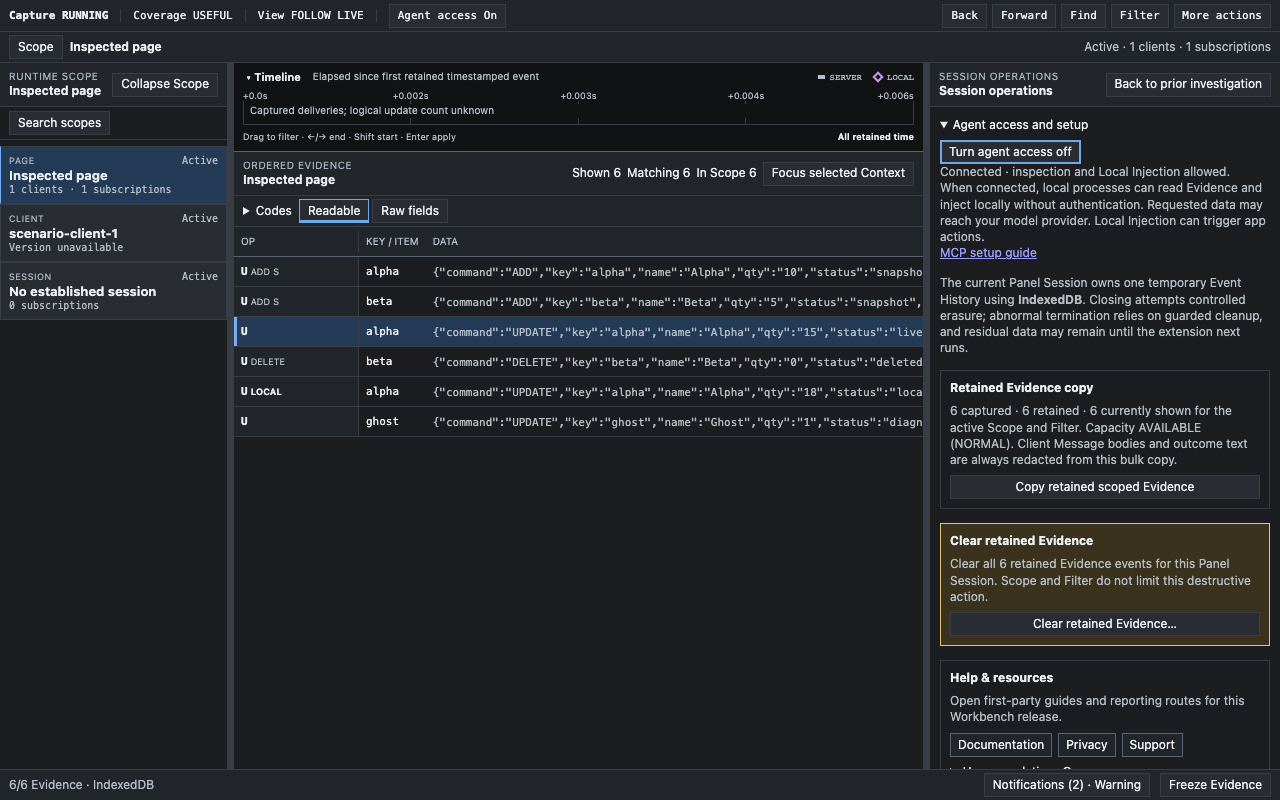
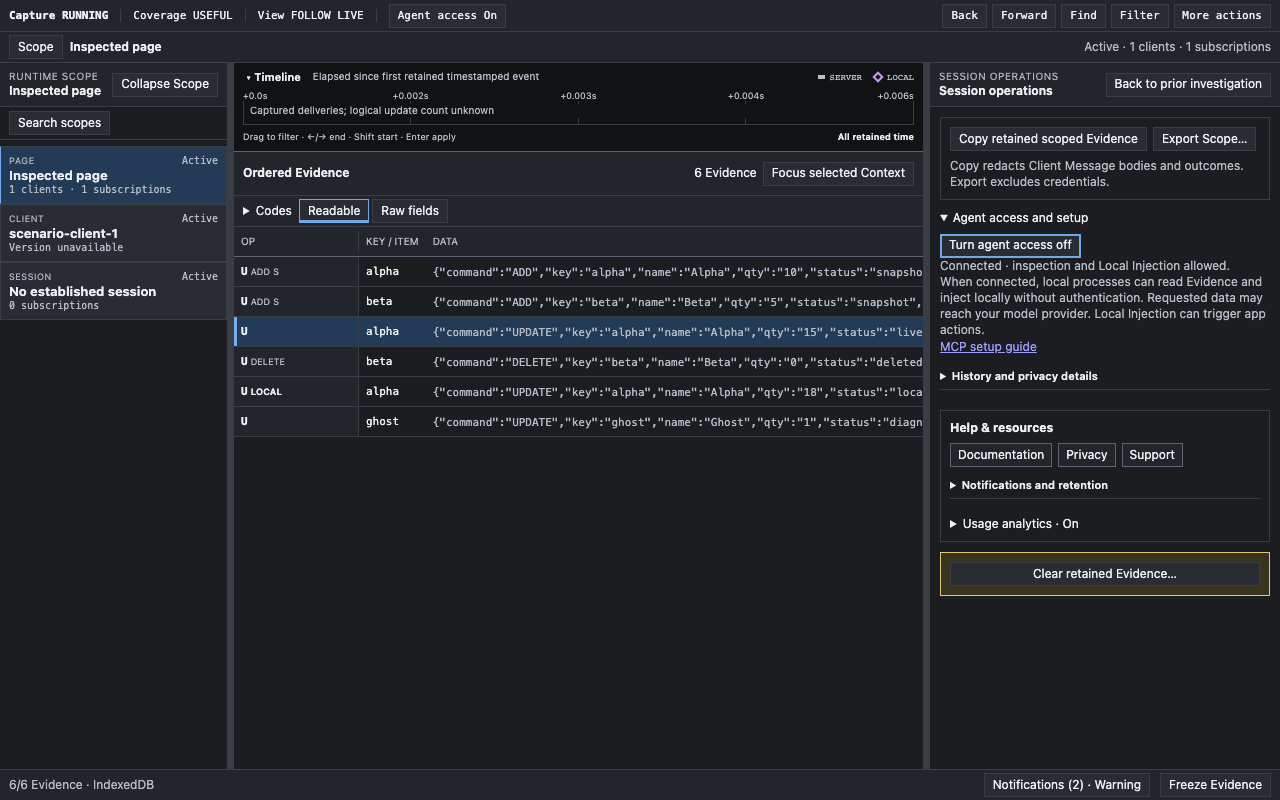
Prepare Chrome 2.0.8 and npm companion 0.1.7 release

diff --git a/store-listing/LISTING.md b/store-listing/LISTING.md
@@ -46,10 +46,10 @@ https://imom39a.github.io/lightstreamer-workbench-extension/privacy/
 
 ## Detailed Description
 
-The description below is saved for extension 2.0.7 with matching companion 0.1.5. The npm package and matching public extension download were verified on September 30, 2026. Version 2.0.7 was submitted for review that day with automatic publication after approval at 100% distribution. The API and refreshed dashboard confirm pending review; 2.0.6 remains published. The versioned release records later in this file describe their original packages.
+The description below is prepared for extension 2.0.8 with matching companion 0.1.7. On October 2, 2026, the publisher API and public listing confirm that extension 2.0.7 is published at 100% distribution. The versioned release records later in this file describe their original packages.
 
 ```text
-New in 2.0.7: COMMAND Clear and exact key handling are more reliable, and long sessions release discarded runtime objects and bound historical bookkeeping. With companion 0.1.5, agents can read one exact COMMAND key with certainty and provenance, wait for an existing operation without repeating it, and recover from incompatible companion versions. MCP reads preserve JSON values, support cancellation, and keep replies within explicit budgets.
+New in 2.0.8: the workspace presents less repeated copy and preserves editor focus. Build Local Injection Scenarios from searchable captured updates with explicit batch adds, an ordered queue, and one focused editor. Switching members and Undo preserve each editor's reading position. Long sessions bound deleted COMMAND-key history. Companion 0.1.7 provides the matching MCP tools and setup.
 
 Lightstreamer Workbench adds a Chrome DevTools panel for applications that use the official Lightstreamer Web Client.
 
@@ -68,7 +68,7 @@ Key features:
 - Trace COMMAND `ADD`, `UPDATE`, and `DELETE` operations. Use Fields, diagnostics, and Checkpoints for more detail.
 - Create one protected Local Injection Draft from captured Evidence or from a live COMMAND Scope.
 - Edit raw JSON and validate the Draft. Captured Drafts compare Source and Draft by default, then inject directly from that preview.
-- Use a Local Injection Scenario for ordered Steps, immutable reviewed Runs, serial controls, Checkpoints, and results for each Step.
+- Search captured updates for the exact Scenario target, select a batch, and add it explicitly. Review ordered Steps and Checkpoints in a queue with one focused editor. Scenarios retain immutable reviewed Runs, serial controls, and results for each Step.
 - Connect a local MCP companion to inspect a Panel Session's Scope, Evidence, diagnostics, and Local Injection Scenario results. Agents can profile and query streams, validate candidates, prepare Scenarios, and inspect Scenario traces. They cannot perform Server Injection, clear Event History, or evaluate arbitrary page code.
 - When a panel opens, Agent access is on by default with inspection and Local Injection available together. There is no read-only mode. The header shows On, Waiting, or Off and opens the access control under More actions → Agent access and setup. Authentication is off; any local process that can reach the companion can use the connected panel's grant. Run Chrome and the Node.js 22.12+ companion on the same computer.
 - Deliver an Item Update to the exact live Subscription in the inspected page. Workbench reports delivered, failed, partial, unknown, and stale-target results.
@@ -126,23 +126,22 @@ store-listing/promo/marquee-promo-tile.png
 Version:
 
 ```text
-2.0.7
+2.0.8
 ```
 
 What's new:
 
 ```text
-COMMAND and agent reliability release, paired with companion 0.1.5.
+Workspace and Scenario workflow improvements, paired with companion 0.1.7.
 
-- Fix COMMAND Clear/replay and exact whitespace-key handling.
-- Release discarded runtime objects and bound historical bookkeeping in long sessions.
-- Preserve encoded JSON values while redacting recognized credentials in MCP reads.
-- Propagate read cancellation and keep responses within explicit budgets.
-- Read one exact COMMAND key with certainty and provenance through query_command_state.
-- Wait for an existing operation receipt through wait_for_operation without repeating it.
-- Validate companion identity and report incompatible Chrome/MCP pairs.
-- Preserve Server Injection correlation receipts and refuse new sends when their capacity is reached.
-- Keep the existing Capture, Injection, permission, and analytics boundaries.
+- Reduce repeated workspace copy and preserve editor focus.
+- Search bounded pages of captured updates independently of the investigation.
+- Add selected batches explicitly and atomically within Scenario capacity limits.
+- Compose an ordered queue with one focused Source/Draft editor.
+- Preserve member reading positions through switching, Park/Resume, and Undo.
+- Label MERGE and DISTINCT Steps as Item update.
+- Bound deleted COMMAND-key history in long sessions.
+- Preserve MCP authorization, the human workspace, and existing data boundaries.
 ```
 
 ## Privacy Practices Draft
@@ -184,18 +183,33 @@ Page access is required to run packaged instrumentation at document_start before
 ## Reviewer Test Instructions
 
 ```text
-No account required. On a page using the official Lightstreamer Web Client, open DevTools > Lightstreamer Workbench. Ordered Evidence captures updates; select one for Local Injection. Server Injection reviews one Client Message before send. Agent access starts on. To test MCP, use companion 0.1.5 from https://www.npmjs.com/package/lightstreamer-workbench-agent/v/0.1.5 and the setup guide at https://imom39a.github.io/lightstreamer-workbench-extension/docs/agent-access/.
+No account required. On a page using the official Lightstreamer Web Client, open DevTools > Lightstreamer Workbench. Select captured Evidence for Local Injection, or explicitly add updates to a Scenario queue. Server Injection reviews one Client Message before send. Agent access starts on. Test MCP with companion 0.1.7: https://www.npmjs.com/package/lightstreamer-workbench-agent/v/0.1.7. Setup: https://imom39a.github.io/lightstreamer-workbench-extension/docs/agent-access/.
 ```
 
-For Store MCP review, extract the configured candidate `release/lightstreamer-workbench-v2.0.7.zip` and load it unpacked; record its assigned extension ID. Generate setup from npm:
+For Store MCP review, extract the configured candidate `release/lightstreamer-workbench-v2.0.8.zip` and load it unpacked; record its assigned extension ID. Generate setup from npm:
 
 ```sh
-npx --yes lightstreamer-workbench-agent@0.1.5 setup --extension-id YOUR_UNPACKED_EXTENSION_ID
+npx --yes lightstreamer-workbench-agent@0.1.7 setup --extension-id YOUR_UNPACKED_EXTENSION_ID
 ```
 
-Copy the printed MCP configuration into the test agent app and start its stdio server. The app starts the companion; no additional terminal or hosted server is needed. On Windows, use `npx.cmd`. The [matching public release](https://github.com/imom39a/lightstreamer-workbench-extension/releases/tag/agent-v0.1.5) includes a ready-built unpacked extension, the same tested companion tarball, source provenance, and SHA-256 checksums. Use both components from this release. Ask the agent to call `list_panel_sessions`, choose the reviewed tab, and call `get_status` before reading Evidence or testing Local Injection.
+Copy the printed MCP configuration into the test agent app and start its stdio server. The app starts the companion; no additional terminal or hosted server is needed. On Windows, use `npx.cmd`. The [matching public release](https://github.com/imom39a/lightstreamer-workbench-extension/releases/tag/agent-v0.1.7) includes a ready-built unpacked extension, the same tested companion tarball, source provenance, and SHA-256 checksums. Use both components from this release. Ask the agent to call `list_panel_sessions`, choose the reviewed tab, and call `get_status` before reading Evidence or testing Local Injection.
 
-## Version 2.0.7 Release Checklist
+## Version 2.0.8 Release Checklist
+
+- [x] Confirm published Store 2.0.7 and npm `latest` 0.1.6 before allocating new versions.
+- [x] Pass the complete local release package gate and inspect ZIP integrity, size, digest, and manifests.
+- [x] Regenerate and inspect current Store/site screenshots; keep pixel-identical brand assets.
+- [x] Prepare current description, release notes, and version-pinned 0.1.7 reviewer instructions.
+- [ ] Publish the exact companion tarball after Windows, macOS, and Linux checks; verify provenance, source, integrity, and npm `latest`.
+- [ ] Publish and verify the matching 2.0.8 download and checksums.
+- [ ] Upload the configured Store ZIP and confirm upload success.
+- [ ] Save and verify the current Store description and reviewer instructions.
+- [ ] Confirm existing privacy answers and permission justifications agree with this release.
+- [ ] Submit with automatic publication after approval at 100% distribution and verify the returned review state.
+- [ ] Restore the npm publication guard to `false` and update public setup guidance.
+- [ ] Verify Google approval and actual public availability of 2.0.8.
+
+## Version 2.0.7 Release Checklist (historical)
 
 - [x] Push reviewed product source `c0f250cba93d5399553f201d9995cd284be1bd26` to `main`.
 - [x] Pass the local package, official-client/MCP, panel browser, and asset-review gates.
@@ -208,7 +222,7 @@ Copy the printed MCP configuration into the test agent app and start its stdio s
 - [x] Confirm existing privacy answers and permission justifications agree with this release.
 - [x] Submit with automatic publication after approval and 100% distribution.
 - [x] Verify 2.0.7 pending review and 2.0.6 published through the API and refreshed dashboard.
-- [ ] Verify Google approval and actual public availability of 2.0.7.
+- [x] Verify Google approval and actual public availability of 2.0.7; publisher API and public listing confirmed on October 2, 2026.
 
 The maintainer resumed publishing on September 30, 2026 and chose to keep the current Store screenshots. No screenshot was removed or uploaded. Prepared replacement images remain in this directory for a future update. The exact configured Store ZIP, upload, and review submission are recorded in [`RELEASE.md`](../RELEASE.md).
 

diff --git a/RELEASE.md b/RELEASE.md
@@ -187,6 +187,22 @@ The workflow's final registry check exhausted its two-minute visibility window, 
 
 The site guide uses 0.1.6 for new setup while retaining the existing matching 2.0.7 extension download during Store review. User-facing site checks and documentation checks passed. The complete work and evidence are tracked under ignored `.scratch/npm-readme-cleanup/`.
 
+## Extension 2.0.8 and npm companion 0.1.7 Preparation Record
+
+The maintainer requested Chrome Web Store and npm publication on October 2, 2026. The publisher API and public Store listing first confirmed extension 2.0.7 published at 100%; npm confirmed companion 0.1.6 as `latest`. This release packages reviewed product revision `22943ba2eb158d2cfb6cc02d7117e0ef7800fdef`: simplified workspace copy, preserved editor focus, bounded deleted COMMAND-key history, and captured-update Scenario composition with paged discovery, explicit atomic batch adds, an ordered queue, and one focused editor. Member switching and Undo preserve reading positions; generic MERGE/DISTINCT Steps use Item update labels.
+
+Release preparation is **Non-UI** relative to that product revision: package versions, matching setup guidance, listing copy, and generated Store/site assets change; no runtime source, panel control, interaction, or visual baseline changes. The accepted product UI, independent reviews, 412-check Darwin browser gate, and official-client/MCP proofs are recorded in [`panel-simplification-evidence.md`](docs/agents/panel-simplification-evidence.md) and [`scenario-capture-workspace-evidence.md`](docs/agents/scenario-capture-workspace-evidence.md). The exact product revision also passed the Windows/macOS/Linux companion workflow [36932983156](https://github.com/imom39a/lightstreamer-workbench-extension/actions/runs/36932983156) and official-client/fixture workflow [36932983096](https://github.com/imom39a/lightstreamer-workbench-extension/actions/runs/36932983096).
+
+Fresh local preparation on Darwin arm64 with Node.js `v25.9.0` and npm `11.12.1` passed:
+
+- `npm ci`, type checking, all 188 serialized unit files with 2,025 tests passed and one existing optional workload skipped, production build, and extension audit.
+- `npm audit --omit=dev` reported zero advisories. The full audit reported nine development-tooling advisories (six high, three moderate); dependency versions were not changed.
+- Store asset regeneration and visual inspection of all five 1280×800 screenshots and the site social card. Pixel-identical icon/promo changes were discarded; current panel and site images are retained.
+- Documentation checks, four site analytics unit checks, eight site browser checks, and all 18 publication-planner/verifier/bundle checks.
[1 lines of base64/hex data omitted]
+
+The npm source minimum and package setup examples use 0.1.7; trusted publication will verify the exact tarball on Windows, macOS, and Linux before publishing it with provenance. Store review submission, final registry verification, downloadable bundle publication, and public setup guidance updates are still pending at this preparation record. Local evidence is under ignored `.scratch/release-2.0.8/`.
+
 ## Usage analytics release contract
 
 [ADR 0015](docs/adr/0015-measure-extension-usage-with-a-closed-analytics-vocabulary.md) records the maintainer-requested replacement of the earlier no-analytics invariant. The candidate enables limited GA4 usage analytics by default with a persistent off switch. Captured Evidence, payloads, inspected URLs, search text, credentials, and raw errors remain outside analytics. This is a Material UI and data-boundary change, not a statement that an existing Store package has changed.

diff --git a/agent/README.md b/agent/README.md
@@ -10,7 +10,7 @@ and Item Updates, and test Local Injections with your agent.
 - Install [Node.js 22.12 or later](https://nodejs.org/en/download), including npm.
 - Use an agent app that supports local stdio MCP servers on the same computer as Chrome.
 
-This release requires extension 2.0.7. See the
+Use this release with extension 2.0.8. See the
 [setup guide](https://imom39a.github.io/lightstreamer-workbench-extension/docs/agent-access/)
 for current availability, installation help, and troubleshooting.
 
@@ -19,13 +19,13 @@ for current availability, installation help, and troubleshooting.
 Run this command on macOS or Linux:
 
 ```sh
-npx --yes lightstreamer-workbench-agent@0.1.6 setup
+npx --yes lightstreamer-workbench-agent@0.1.7 setup
 ```
 
 In Windows PowerShell:
 
 ```powershell
-npx.cmd --yes lightstreamer-workbench-agent@0.1.6 setup
+npx.cmd --yes lightstreamer-workbench-agent@0.1.7 setup
 ```
 
 Copy the printed `mcpServers` entry into your agent app's MCP settings, then
